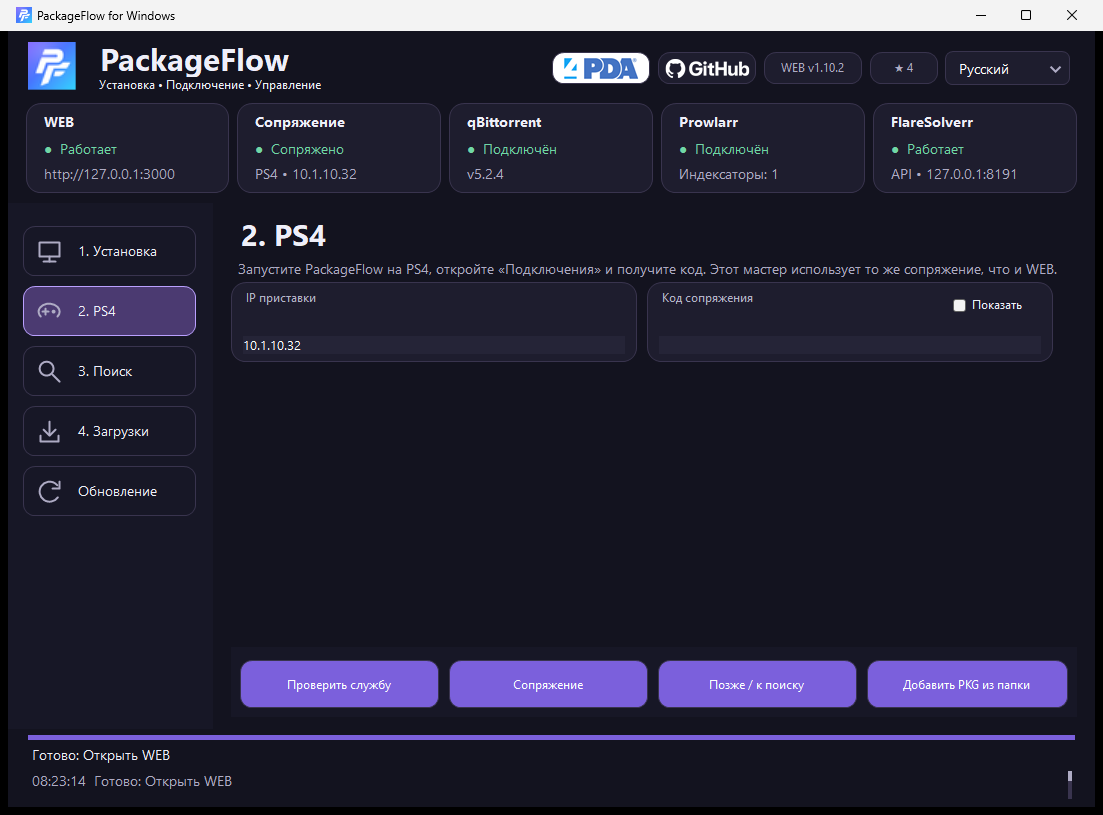
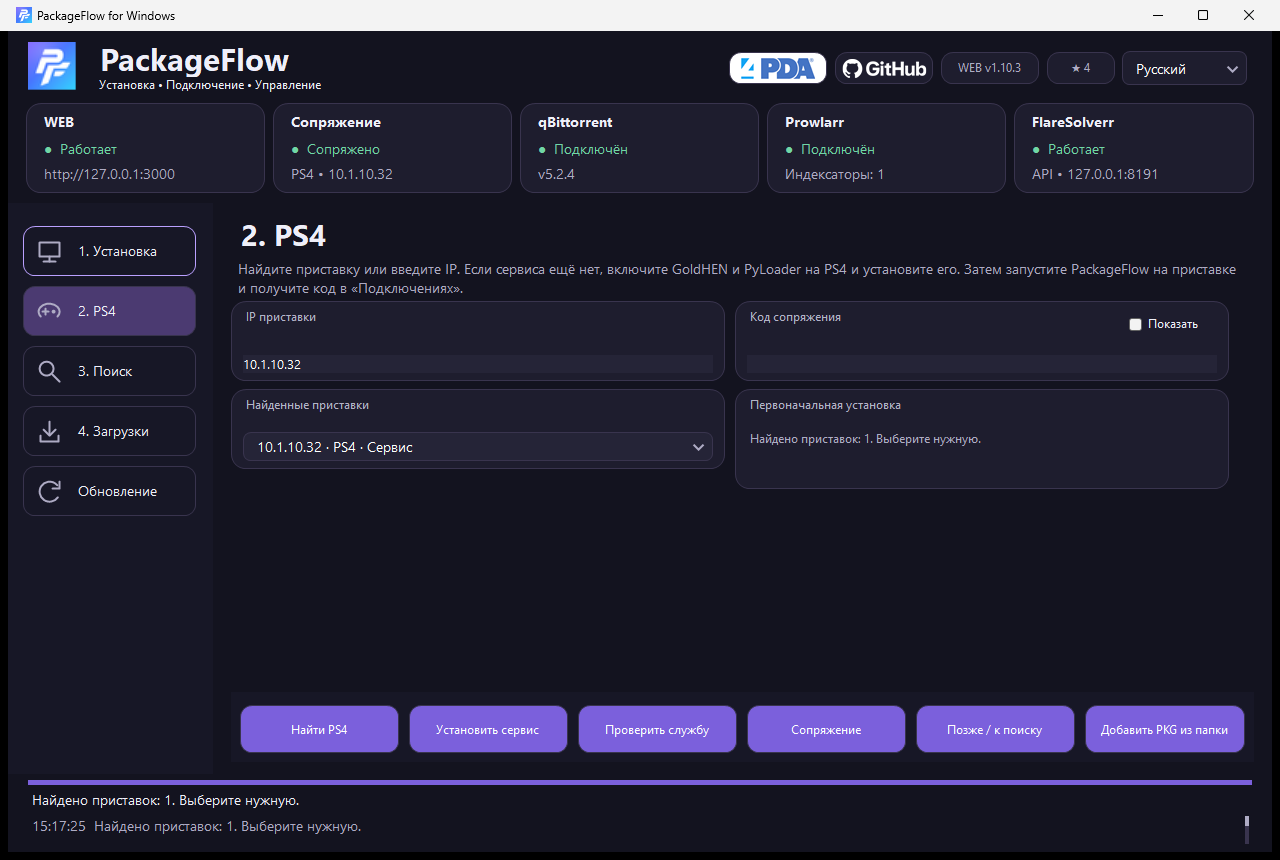
docs: refresh README with Windows 1.10.5 wizard screenshots

diff --git a/README.md b/README.md
@@ -13,7 +13,7 @@
 - **Приложение PS4:** Full HD, геймпад, штатная клавиатура, сопряжение и настройки фоновой службы.
 - **Файлы и консоль:** файловый менеджер, локальные PKG, установленные приложения, сохранения и сведения о системе.
 - **Поиск и загрузки:** Prowlarr/Jackett, карточки с описанием и обложкой, qBittorrent и автоустановка.
-- **Мастер Windows:** запуск WEB, выбор папки PKG и её индексация, сопряжение с PS4, настройка RuTracker и qBittorrent. Статусы всех подключений, журнал действий, автозапуск и обновление установщика из GitHub.
+- **Мастер Windows:** автоматическая подготовка WEB, Prowlarr, FlareSolverr и qBittorrent; поиск PS4 в сети, первоначальная установка сервиса через PyLoader и сопряжение. Выбор и индексация папки PKG, статусы подключений, журнал, автозапуск и обновление из GitHub.
 - **RU / EN:** переключение языка с сохранением выбора.
 
 ## Быстрый запуск
@@ -23,11 +23,11 @@
 ### Windows — установщик
 
 1. Скачайте **`PackageFlowSetup-…-x64.exe`** из [Releases](https://github.com/demagoc3-cpu/playstation_installer/releases) и установите на **Windows 10/11 x64**. WEB, Node.js и среда .NET уже входят в комплект. В конце установки можно добавить ярлык на рабочий стол.
-2. В мастере выберите режим **Windows**, папку с PKG и IP компьютера. Нажмите **«Применить»** — мастер сохранит настройки, запустит WEB и проиндексирует папку.
-3. Установите PKG PackageFlow на PS4 из того же раздела Releases. Откройте на консоли **«Подключения»**, получите код и введите его на шаге **«PS4»** в мастере.
-4. При необходимости настройте поиск RuTracker и загрузки qBittorrent, затем откройте WEB и устанавливайте игры.
+2. При первом запуске мастер сам подготовит WEB, Prowlarr, FlareSolverr и qBittorrent. Ход настройки виден внизу окна. При установке qBittorrent подтвердите запрос администратора Windows.
+3. На шаге **«PS4»** нажмите **«Найти PS4»** или введите IP. Если сервиса ещё нет, включите **GoldHEN и PyLoader (порт 9090)** на приставке и нажмите **«Установить сервис»**. Дождитесь установки PKG на PS4, запустите PackageFlow, получите код в **«Подключениях»**, введите его в мастере и нажмите **«Сопряжение»** в мастере. PKG также можно установить вручную из Releases.
+4. На шаге **«Поиск»** введите логин и пароль RuTracker и нажмите **«Добавить RuTracker и проверить»**. Если трекер просит капчу, используйте **«Войти вручную»** — окно браузера дождётся подтверждения входа. Откройте WEB и устанавливайте игры; свою папку PKG выберите на шаге **«Установка»** → **«Применить»**.
 
-Мастер устанавливает Prowlarr и FlareSolverr, помогает подключить RuTracker по логину и паролю и показывает состояние WEB, сопряжения, qBittorrent, Prowlarr и FlareSolverr. Поиск и загрузки можно настроить позже; **qBittorrent устанавливается отдельно**.
+Мастер показывает состояние всех подключений. Прерванную подготовку можно повторить кнопкой **«Подготовить компоненты»**. Уже настроенное подключение qBittorrent сохраняется; для нового создаётся отдельный профиль PackageFlow. Поиск и сопряжение можно настроить позже.
 
 Также доступен режим **Docker Compose** — для него нужны установленный и запущенный Docker Desktop. Подробности: [руководство Windows](docs/ru/windows.md).
 
@@ -53,9 +53,18 @@ pnpm start
 
 ## Скриншоты
 
-| Мастер Windows — установка и статусы | Мастер Windows — сопряжение с PS4 |
+Снимки работающего мастера Windows **1.10.5**. В шапке отдельно показывается версия WEB из GitHub.
+
+| Мастер Windows — установка и статусы | Мастер Windows — поиск PS4 и установка сервиса |
 |---|---|
-| [![Настройка Windows и состояние компонентов](docs/screenshots/windows-setup.png)](docs/screenshots/windows-setup.png) | [![Сопряжение с PS4 в мастере Windows](docs/screenshots/windows-pairing.png)](docs/screenshots/windows-pairing.png) |
+| [![Настройка Windows и состояние компонентов](docs/screenshots/windows-setup.png)](docs/screenshots/windows-setup.png) | [![Поиск PS4, установка сервиса и сопряжение в мастере Windows](docs/screenshots/windows-pairing.png)](docs/screenshots/windows-pairing.png) |
+
+<details>
+<summary>Мастер Windows — RuTracker и ручной вход при капче</summary>
+
+![Настройка RuTracker и кнопка ручного входа](docs/screenshots/windows-search.png)
+
+</details>
 
 | WEB — библиотека | Приложение PS4 — предпросмотр каталога |
 |---|---|
